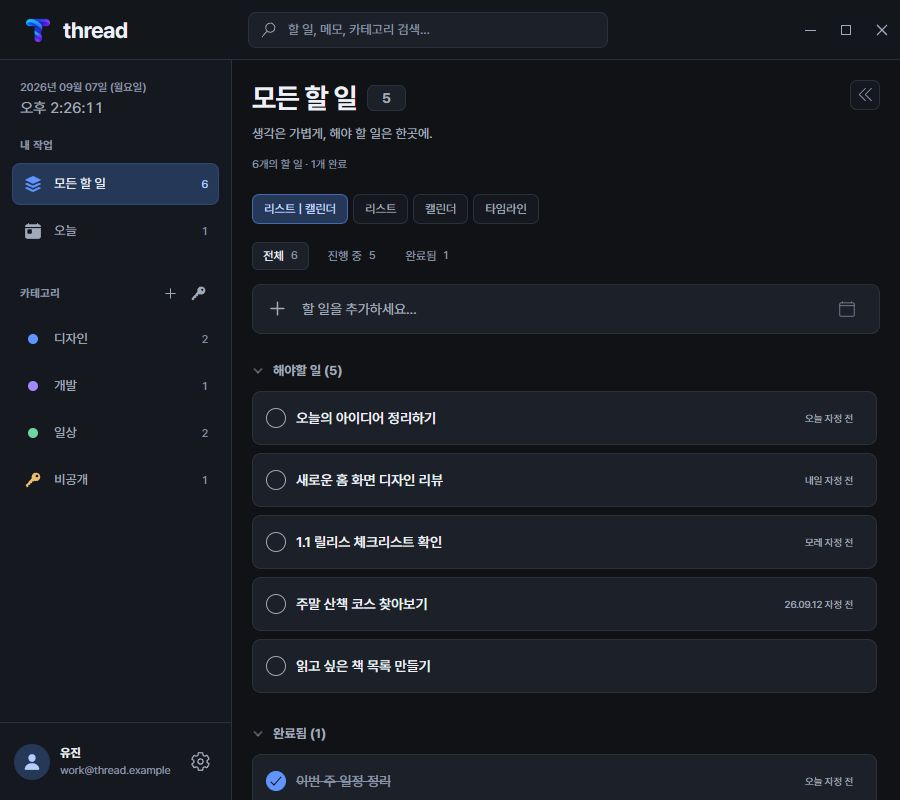
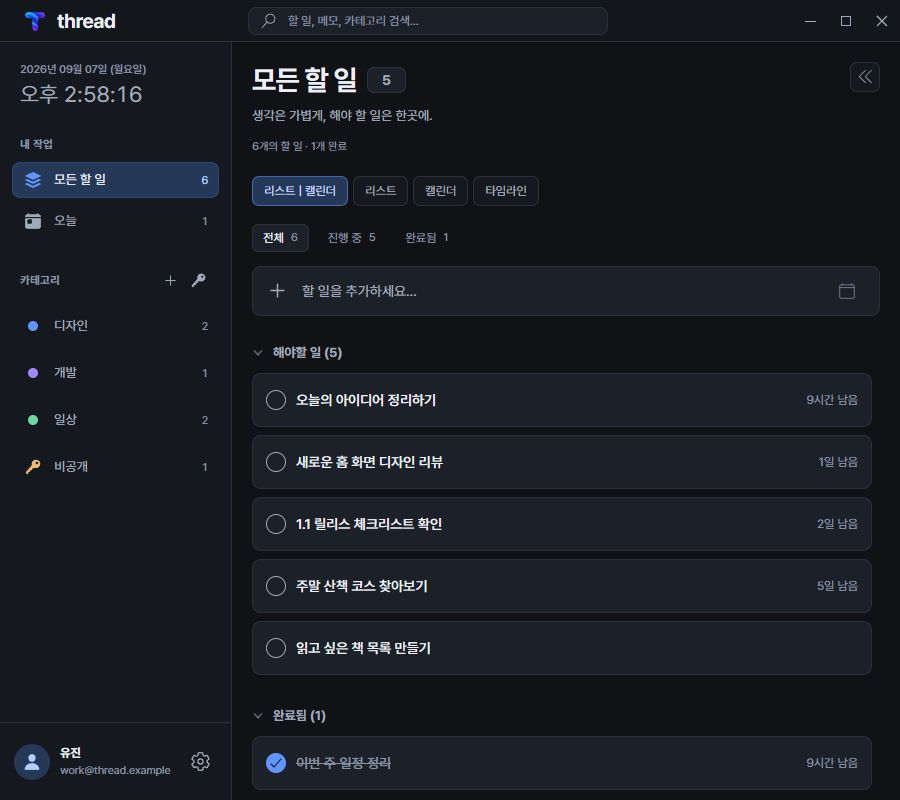
fix(desktop): refine workspace sizing and remaining time labels

diff --git a/apps/desktop/src/components/TodoItem.js b/apps/desktop/src/components/TodoItem.js
@@ -117,7 +117,7 @@ const TodoItem = ({
     if (remainTimeMilli == null) return "";
     return fromRelativeTime(
       remainTimeMilli < 0 ? -remainTimeMilli : remainTimeMilli,
-      { showLayerCount: 3 }
+      { showLayerCount: 1, showMillisec: false }
     );
   }, [remainTimeMilli]);
 
@@ -293,23 +293,13 @@ const TodoItem = ({
             ></div>
             <div className="title">{todo.title}</div>
             {categoryTags.length > 0 && <span className="task-category-badge">{categoryTags[0].title}</span>}
-            {todo.dueDate != null && (
-              <div
-                className={
-                  "due-date" +
-                  JsxUtil.classByCondition(todo.dueDate != null, "active")
-                }
-              >
-                {dueDateText} {dueTimeText}
-                {todoCtx.repeatPeriod != null &&
-                  todo.dueDate &&
-                  ` (${repeatTimeText})`}
-              </div>
-            )}
           </div>
           <div className="right-side">
             {remainTimeMilli != null && (
-              <div className="remain-time">
+              <div
+                className="remain-time"
+                title={`${dueDateText} ${dueTimeText}${todoCtx.repeatPeriod != null ? ` (${repeatTimeText})` : ""}`}
+              >
                 {remainTimeText} {remainTimeMilli < 0 ? "지남" : "남음"}
               </div>
             )}

diff --git a/apps/desktop/src/views/TaskCalendarView.js b/apps/desktop/src/views/TaskCalendarView.js
@@ -302,7 +302,7 @@ const TaskCell = ({ task, setHoveredTaskId, hoveredTaskId, categories }) => {
   const dueDate = useMemo(() => {
     if (task.dueDate == null) return null;
     return moment(task.dueDate).toDate();
-  }, [task.date]);
+  }, [task.dueDate]);
 
   const overDue = useMemo(() => {
     if (dueDate == null) return false;
@@ -328,7 +328,8 @@ const TaskCell = ({ task, setHoveredTaskId, hoveredTaskId, categories }) => {
     return fromRelativeTime(
       remainMilliSeconds < 0 ? -remainMilliSeconds : remainMilliSeconds,
       {
-        showLayerCount: 2,
+        showLayerCount: 1,
+        showMillisec: false,
       }
     );
   }, [dueDate, counter]);
@@ -377,7 +378,7 @@ const TaskCell = ({ task, setHoveredTaskId, hoveredTaskId, categories }) => {
       {dueDate != null && !task.done && remainMilliSeconds != null && (
         <div className="remain-time">
           {remainTimeText}
-          {/*{" "}{remainMilliSeconds < 0 ? "지남" : "남음"}*/}
+          {" "}{remainMilliSeconds < 0 ? "지남" : "남음"}
         </div>
       )}
     </div>

diff --git a/apps/desktop/src/views/TaskCalendarView.scss b/apps/desktop/src/views/TaskCalendarView.scss
@@ -32,6 +32,7 @@
     color: var(--accent);
   }
   .day-cell {
+    container-type: inline-size;
     position: relative;
     min-width: 0;
     height: clamp(76px, 9vh, 116px);
@@ -108,7 +109,7 @@
     border-radius: 4px;
     background: var(--surface);
     color: var(--text);
-    font-size: 10px;
+    font-size: 12px;
     min-width: 0;
   }
   .task.hovered,
@@ -116,6 +117,8 @@
     background: var(--selected);
   }
   .task .title {
+    flex: 1;
+    min-width: 0;
     overflow: hidden;
     text-overflow: ellipsis;
     white-space: nowrap;
@@ -134,6 +137,13 @@
   }
   .task .remain-time {
     display: none;
+    flex-shrink: 0;
+    white-space: nowrap;
+  }
+  @container (min-width: 150px) {
+    .task .remain-time {
+      display: block;
+    }
   }
   .task.done {
     color: var(--muted);

diff --git a/apps/desktop/src/utils/Common.test.js b/apps/desktop/src/utils/Common.test.js
@@ -1,0 +1,24 @@
+import { fromRelativeTime } from "./Common";
+
+describe("compact remaining time", () => {
+  const minute = 60 * 1000;
+  const hour = 60 * minute;
+  const day = 24 * hour;
+
+  test.each([
+    [hour + 35 * minute, "1시간"],
+    [2 * hour + 59 * minute, "2시간"],
+    [day + 23 * hour, "1일"],
+    [90 * day, "3개월"],
+    [59 * minute + 59 * 1000, "59분"],
+    [59 * 1000, "59초"],
+    [999, "0초"],
+    [0, "0초"],
+  ])("floors %i ms to one unit", (milliseconds, expected) => {
+    expect(fromRelativeTime(milliseconds, { showLayerCount: 1, showMillisec: false })).toBe(expected);
+  });
+
+  test("keeps multi-unit detail formatting unchanged", () => {
+    expect(fromRelativeTime(hour + 35 * minute, { showLayerCount: 2 })).toBe("1시간 35분");
+  });
+});

diff --git a/apps/desktop/src/components/TopBar.scss b/apps/desktop/src/components/TopBar.scss
@@ -18,14 +18,14 @@
     gap: 9px;
     padding: 0 22px;
     box-sizing: border-box;
-    font-size: 22px;
+    font-size: 20px;
     font-weight: 650;
     letter-spacing: -0.6px;
     color: var(--text);
   }
   .brand img {
-    width: 32px;
-    height: 32px;
+    width: 26px;
+    height: 26px;
     object-fit: contain;
   }
   .workspace-search {
@@ -34,7 +34,7 @@
     gap: 10px;
     width: min(440px, 40vw);
     min-width: 140px;
-    height: 36px;
+    height: 28px;
     margin-left: 28px;
     padding: 0 12px;
     border: 1px solid var(--border);
@@ -51,7 +51,7 @@
   .workspace-search input {
     width: 100%;
     min-width: 0;
-    font-size: 13px;
+    font-size: 12px;
     color: var(--text);
     outline: none;
   }

diff --git a/apps/desktop/src/components/LeftSidebar.scss b/apps/desktop/src/components/LeftSidebar.scss
@@ -19,7 +19,7 @@
   .clock {
     background: none;
     border: 0;
-    padding: 22px 20px 16px;
+    padding: 22px 20px 26px;
   }
   .clock .date {
     font-size: 11px;
@@ -31,7 +31,7 @@
     color: var(--secondary);
   }
   .clock .time .by-sec {
-    font-size: 15px;
+    font-size: 22px;
     font-variant-numeric: tabular-nums;
   }
   > .todo-menu-groups {
@@ -95,6 +95,12 @@
     font-size: 13px;
     cursor: pointer;
     transition: background 0.15s ease;
+  }
+  .todo-menu.default {
+    height: 36px;
+    min-height: 36px;
+    padding-top: 5px;
+    padding-bottom: 5px;
   }
   .todo-menu:hover {
     background: var(--hover);

diff --git a/apps/desktop/src/styles/surfaces.scss b/apps/desktop/src/styles/surfaces.scss
@@ -1,4 +1,5 @@
 // Shared surfaces use the same tokens as the workspace.
+@import "styles/constants.scss";
 .profile-img {
   border-radius: 50%;
   background: var(--selected);
@@ -36,10 +37,10 @@
   background: var(--selected);
 }
 .modal {
-  height: calc(100% - 60px);
+  height: calc(100% - #{$top-bar-height});
 }
 .modal-back-panel {
-  height: calc(100% - 60px);
+  height: calc(100% - #{$top-bar-height});
   background: #080a1099;
 }
 .modal-content {

diff --git a/apps/desktop/src/components/TodoItem.scss b/apps/desktop/src/components/TodoItem.scss
@@ -101,7 +101,7 @@
     }
     .remain-time {
       color: var(--muted);
-      font-size: 10px;
+      font-size: 12px;
       white-space: nowrap;
     }
   }
@@ -300,9 +300,6 @@
       line-height: 1.65;
     }
   }
-}
-.task-list-calendar-view .todo-item .right-side .remain-time {
-  display: none;
 }
 @media (max-width: 1250px) {
   .task-list-calendar-view .todo-item .task-category-badge {

diff --git a/apps/desktop/src/views/TaskListCalendarView.scss b/apps/desktop/src/views/TaskListCalendarView.scss
@@ -11,7 +11,8 @@
   }
   .view-segment.list {
     flex: 1;
-    padding-right: 3px;
+    // Reserve room for the card's delete button (right: -7px).
+    padding-right: 8px;
   }
   .view-segment.calendar {
     flex: 1.15;

diff --git a/apps/desktop/src/styles/constants.scss b/apps/desktop/src/styles/constants.scss
@@ -9,7 +9,7 @@ $std-color: #a0aaba;
 $highlight-color: #6294ff;
 
 // top bar
-$top-bar-height: 60px;
+$top-bar-height: 42px;
 
 // to-do content
 $padding-horizontal: 28px;

diff --git a/docs/tasks.md b/docs/tasks.md
@@ -2,7 +2,7 @@
 
 | Index | Tag | Updated | Status | Completed | Deps | 항목 | 완료 조건 |
 | --- | --- | --- | --- | --- | --- | --- | --- |
-| 37 | desktop/design | 2026-09-07 14:29 | 🟡 WIP |  |  | Desktop UI/UX 전면 개선 | 참고 이미지 기반 charcoal/blue 토큰·상단 검색·사이드바·목록/캘린더 분할·빠른 추가·완료 필터·날짜 상세·설정/팝업을 구현했다. 기존 IPC mutation 계약과 보안 카테고리 필터를 유지했다. renderer 31개 테스트·production build(기존 lint 경고) 통과, synthetic 실제 브라우저에서 검색/편집/설정/달 이동/정렬/타임라인/900·1280·1600px/빈 상태를 검증하고 스크린샷을 디자인 명세에 보존했다. 사용자 시각 검수 대기. |
+| 37 | desktop/design | 2026-09-07 14:59 | 🟡 WIP |  |  | Desktop UI/UX 전면 개선 | 참고 이미지 기반 charcoal/blue 토큰·상단 검색·사이드바·목록/캘린더 분할·빠른 추가·완료 필터·날짜 상세·설정/팝업을 구현했다. 기존 IPC mutation 계약과 보안 카테고리 필터를 유지했다. 추가 피드백: 상단 42px·시계 22px·메뉴 36px·시계 아래 여백 +10px, 목록/캘린더 12px 단일 단위 남은 시간(상세 유지), 좁은 캘린더 시간 숨김, 삭제 버튼 돌출에 의한 목록 가로 넘침을 수정했다. renderer 40개 테스트·production build(기존 lint 경고) 및 synthetic 실제 브라우저의 기능/치수/900·1280·1600px 내부 넘침 검증 통과. 스크린샷을 디자인 명세에 보존했다. 사용자 시각 검수 대기. |
 | 36 | security | 2026-09-07 13:05 | 🟢 DONE | 2026-09-07 13:05 |  | Desktop production env 이력 제거 | ignore 예외를 제거하고 별도 복제본 전체 이력에서 해당 경로를 제거했다. master/refactor 양 원격 브랜치를 explicit lease·atomic 강제 푸시하고 로컬 브랜치를 정렬했다. 파일 존재·ignore 적용·추적 해제를 확인했다. 로컬 실제 env·기존 stash/다른 브랜치는 보존했으며 GitHub 캐시/타인의 clone까지 삭제한 것은 아니다. |
 | 35 | desktop | 2026-09-07 02:21 | 🟢 DONE | 2026-09-07 02:21 | #34 | v2 설정 동기화 상태 및 1.1.0 빌드 | 설정을 연결 상태·미전송 변경·마지막 반영 번호로 교체하고 현재 상태 조회/실시간 갱신/데이터 보존 재시도 IPC를 연결했다. 계정 필터·초기 응답 경쟁·개별 구독 해제를 검증했다. renderer 29개 및 SQLite/mock service 테스트 1개 통과, production build와 Windows ia32 NSIS 1.1.0 패키징 완료. asar 버전·진입점·최종 renderer·sync/IPC 코드 일치를 확인했다. 기존 lint 경고는 남아 있으며 실제 설치·운영 서버 호출·업로드는 하지 않았다. |
 | 34 | desktop | 2026-09-07 02:10 | 🟢 DONE | 2026-09-07 02:10 |  | 상단 평상시 sync 상태 제거 및 설정 0/0 진단 | 평상시 debug 상태 줄을 제거하고 복구/오류 경고를 보존했다. UI 테스트 6개와 Root/경고 컴포넌트 transpilation, diff 검사를 통과했다. 설정 0/0은 legacy block IPC만 구독하고 v2 status를 구독하지 않는 표시 문제로 확인했다. 설정 변경은 이번 진단 범위에 포함하지 않았다. 실제 Electron 실행/패키징은 수행하지 않았다. |

diff --git a/docs/designs/desktop-visual-refresh.md b/docs/designs/desktop-visual-refresh.md
@@ -23,8 +23,12 @@
 
 ## Layout and behavior
 
-- 60px 상단: Thread 로고, 현재 카테고리 내 검색(Ctrl/Cmd+K), 기존 창 제어.
+- 42px 상단: 26px Thread 로고, 28px 검색창(Ctrl/Cmd+K), 기존 창 제어.
 - 232px 사이드바: 오늘/전체, 기존 카테고리 및 보안 카테고리 관리, 계정과 설정.
+- 현재 시간은 22px, 시계 아래 여백은 기존보다 10px 추가한다. 오늘/전체 버튼은 36px 높이다.
+- 목록 요약과 캘린더 항목은 12px 남은 시간을 가장 큰 단위 하나로 내림 표시한다(1시간 35분 → 1시간 남음). 지난 기한은 같은 규칙으로 지남을 표시하고 펼친 상세 타이머는 기존 다중 단위를 유지한다.
+- 캘린더 항목 제목은 12px이며 날짜 셀의 콘텐츠 폭이 150px 이상일 때만 남은 시간을 표시한다. 월/년의 시간 환산은 기존 포맷터를 유지한다.
+- 분할 목록은 카드 바깥 삭제 버튼의 7px 돌출 폭을 수용하는 우측 8px 여백으로 가로 스크롤을 방지한다.
 - 작업 영역: 제목/설명, 기존 보기 및 정렬 선택, 전체/진행 중/완료 필터, 상단 추가 입력.
 - 기본 보기는 작업 목록과 월간 캘린더의 두 열. 좁은 창에서는 세로로 배치하고 각 기능에 스크롤로 접근한다.
 - 검색은 이미 접근 가능한 작업의 제목·메모·카테고리명에 적용하는 renderer 필터다. 보안 카테고리 필터를 우회하지 않는다.
@@ -47,6 +51,14 @@
 - 설치 파일 패키징과 사용자 시각 검수는 이번 검증에 포함하지 않는다. 현재 dev 실행에서 화면을 확인할 수 있다.
 
 ## Preview
+
+추가 피드백 검증: 2026-09-07 14:59 (KST)
+
+- Renderer 40개 테스트 통과. 단일 단위 내림 경계와 기존 다중 단위 포맷 유지 포함.
+- 실제 브라우저에서 상단 42px·로고 26px·검색창 28px·시계 22px·기본 메뉴 36px·시계 하단 padding 26px을 측정했다.
+- 900/1280/1600px에서 분할 목록에 hover해 내부 가로 넘침이 없는지 검사했다. 이전에는 목록 clientWidth 599px 대비 scrollWidth 602px이었으며 수정 후 넘침이 없다.
+- 캘린더 단독 넓은 보기에서 남은 시간 표시, 좁은 보기에서 숨김, 항목 12px 및 목록 단일 단위 표시를 확인했다. 기존 검색/추가/완료/편집/설정/보기 전환 검증도 통과했다.
+- Production renderer build 통과(기존 lint 경고). 상세 타이머 구현과 데이터/IPC는 변경하지 않았다.
 
 아래 이미지는 실제 변경된 React 컴포넌트에 가짜 데이터를 넣어 촬영한 화면이다.
 
